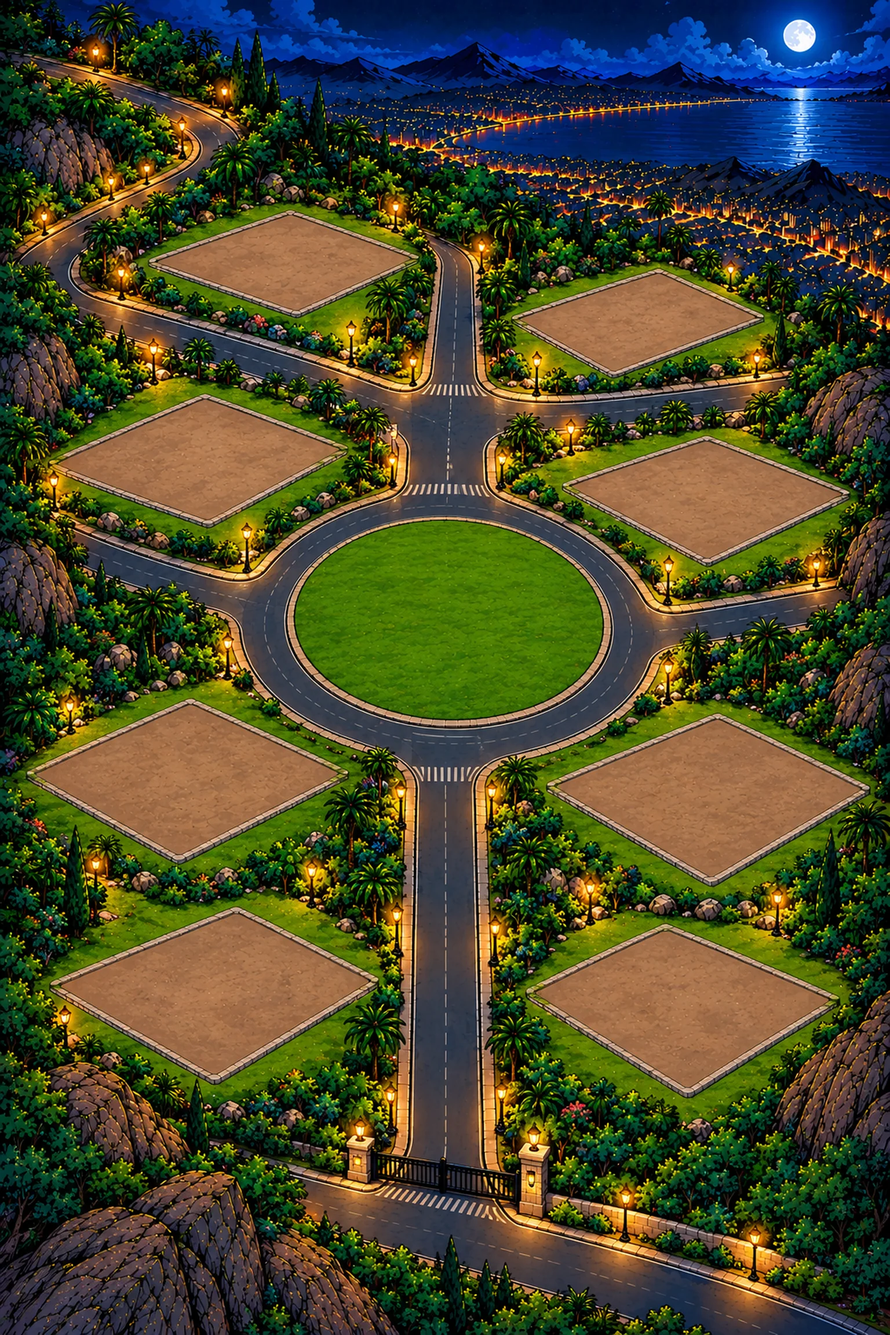
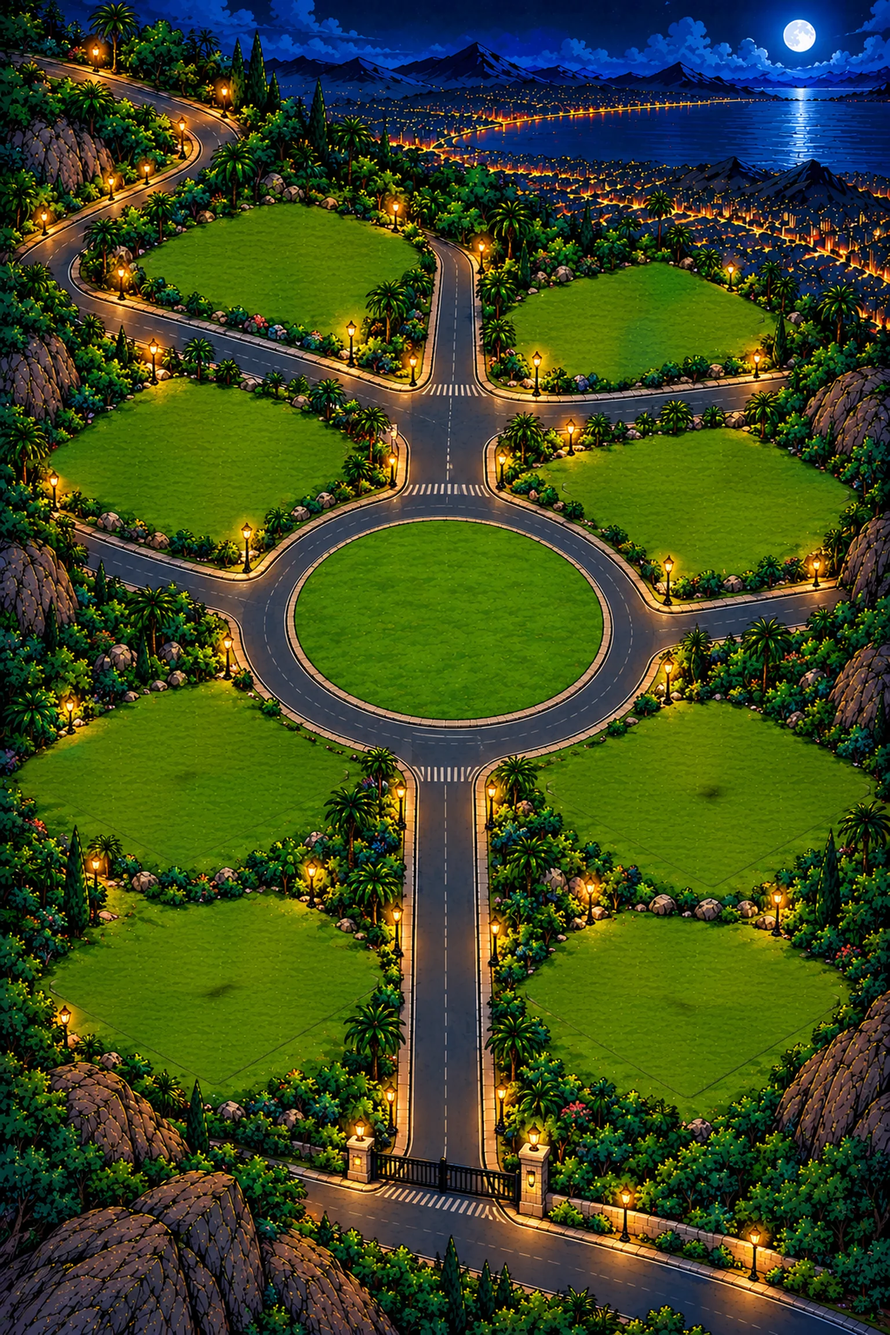
Club map: the empty pads painted out as lawn, the right-hand buildings turned to face the road, buildings refitted
Claude-Session: https://claude.ai/code/session_01NK7tbrKg5PdA6fuyEUPXLd

diff --git a/js/clubmap.js b/js/clubmap.js
@@ -7,14 +7,14 @@ const GREY = 0.7;                   // the grey every club-coloured surface was 
 // where each building stands: its picture's middle as a share of the map, and how wide it is drawn as a share of the map's width
 // (fitted to the plots in the base picture: the building's base on the plot's ground, inside its walls)
 const SITES = {
-  stadium:  { x: 0.505, y: 0.431, w: 0.353 },
+  stadium:  { x: 0.505, y: 0.431, w: 0.370 },
   training: { x: 0.325, y: 0.168, w: 0.318 },
-  apartment:{ x: 0.708, y: 0.215, w: 0.296 },
-  office:   { x: 0.220, y: 0.310, w: 0.360 },
-  academy:  { x: 0.800, y: 0.342, w: 0.333 },
-  medical:  { x: 0.212, y: 0.550, w: 0.374 },
-  clubhouse:{ x: 0.801, y: 0.563, w: 0.373 },
-  shop:     { x: 0.240, y: 0.707, w: 0.388 },
+  apartment:{ x: 0.713, y: 0.216, w: 0.296 },
+  office:   { x: 0.221, y: 0.312, w: 0.359 },
+  academy:  { x: 0.784, y: 0.342, w: 0.338 },
+  medical:  { x: 0.213, y: 0.550, w: 0.374 },
+  clubhouse:{ x: 0.795, y: 0.562, w: 0.377 },
+  shop:     { x: 0.239, y: 0.707, w: 0.388 },
 };
 const ORDER = Object.keys(SITES).sort((a, b) => SITES[a].y - SITES[b].y);   // far to near, the near ones painted over the far
 // where each building is in img/map/buildings.webp (and its tint in buildings-tint.webp): [row, height], all 1100 wide (tools/build_map.py)

diff --git a/tools/build_map.py b/tools/build_map.py
@@ -5,7 +5,7 @@ usage: python3 tools/build_map.py [name ...]      (all of them when none is name
 
 SOURCE (tools/map): base.png (the empty estate, 2048 x 3072) and one picture per building at level 1 (stadium, training, office, apartment, medical,
 academy, clubhouse, shop), each on flat magenta (or already transparent). Roofs, awnings and seats are one royal blue; trim is one golden yellow.
-OUT (img/map): base.webp, buildings.webp (the eight cut-outs one under the other, the blue and yellow turned into a grey ramp, so the club's colour
+OUT (img/map): base.webp (the estate with the empty pads painted over as lawn), buildings.webp (the eight cut-outs one under the other, the blue and yellow turned into a grey ramp, so the club's colour
 multiplied on gives the club's colour at the painted brightness) and buildings-tint.webp (R the main colour's weight, G the trim's); where each
 building is in them is printed (ATLAS, in js/clubmap.js), and where it stands on the map is SITES there.
 Needs numpy, Pillow and scipy.
@@ -17,6 +17,7 @@ from scipy import ndimage as ndi
 
 HERE = os.path.dirname(os.path.abspath(__file__))
 SRC, OUT = os.path.join(HERE, 'map'), os.path.join(HERE, '..', 'img', 'map')
+FLIP = ['apartment', 'academy', 'clubhouse']   # the buildings on the right of the road, turned to face it (their fronts look to the lower right as drawn)
 NAMES = ['stadium', 'training', 'office', 'apartment', 'medical', 'academy', 'clubhouse', 'shop']
 GREY = 0.7              # js/clubmap.js: the grey a club-coloured surface is made in
 BLUE_V, YEL_V = 0.84, 1.0   # the brightness (V) of the painted blue (#1f5fd6) and yellow (#ffd23f)
@@ -79,13 +80,19 @@ def build(name):
     sz = (w, round(rgb.shape[0] * w / rgb.shape[1]))
     base = Image.fromarray((np.dstack([out, al]) * 255 + .5).astype(np.uint8), 'RGBA').resize(sz, Image.LANCZOS)
     tn = Image.fromarray((tint * 255 + .5).astype(np.uint8), 'RGB').resize(sz, Image.LANCZOS)
+    if name in FLIP:
+        base, tn = base.transpose(Image.FLIP_LEFT_RIGHT), tn.transpose(Image.FLIP_LEFT_RIGHT)
     return base, tn
 
 
 def main():
     os.makedirs(OUT, exist_ok=True)
-    im = Image.open(os.path.join(SRC, 'base.png')).convert('RGB')
-    im.resize((1536, 2304), Image.LANCZOS).save(os.path.join(OUT, 'base.webp'), quality=84, method=6)
+    # the estate with its empty pads painted over (tools/clear_pads.py): the buildings bring their own ground
+    import cv2
+    sys.path.insert(0, HERE)
+    from clear_pads import clear
+    a = cv2.imread(os.path.join(SRC, 'base.png'))[..., ::-1].astype(np.float32)
+    Image.fromarray(clear(a).astype(np.uint8)).resize((1536, 2304), Image.LANCZOS).save(os.path.join(OUT, 'base.webp'), quality=84, method=6)
     parts = {n: build(n) for n in (sys.argv[1:] or NAMES)}
     # all the buildings in one picture (and their tints in another), one under the other: the map is published with a limit on its files
     H = sum(b.size[1] for b, _ in parts.values())

diff --git a/tools/clear_pads.py b/tools/clear_pads.py
@@ -1,0 +1,59 @@
+#!/usr/bin/env python3
+"""The club map's empty building pads, painted out: each pad (bare ground and its kerb) becomes lawn, so a building stands on its own lawn and nothing of the pad shows round it.
+
+usage: python3 tools/clear_pads.py in.png out.png      (used by tools/build_map.py)
+The lawn is the colour of the grass round the pad (smoothed) with the grain of a real piece of lawn from the same picture laid over it.
+Needs numpy, scipy, opencv.
+"""
+import sys
+import cv2
+import numpy as np
+from scipy import ndimage as ndi
+
+
+def pad_mask(a):
+    """The pads: bare brown ground, wider by the kerb round it (a is a float RGB picture 0..255)."""
+    r, g, b = a[..., 0], a[..., 1], a[..., 2]
+    dirt = (r > g) & (r > 110) & (r - b > 30) & (r < 200) & (g > 80)
+    dirt = ndi.binary_opening(dirt, iterations=4)
+    lab, n = ndi.label(ndi.binary_closing(dirt, iterations=5))
+    big = [i for i in range(1, n + 1) if (lab == i).sum() > 15000 * (a.shape[0] / 1536) ** 2]
+    m = np.isin(lab, big)
+    return ndi.binary_dilation(m, iterations=round(14 * a.shape[0] / 3072) + 12), m
+
+
+def lawn_grain(a, grass, size=192):
+    """The most evenly grassy square of the picture, its fine grain (the picture minus its own blur)."""
+    k = size
+    frac = ndi.uniform_filter(grass.astype(float), size=k)
+    frac[: k // 2] = 0; frac[-k // 2:] = 0; frac[:, : k // 2] = 0; frac[:, -k // 2:] = 0
+    y, x = np.unravel_index(np.argmax(frac), frac.shape)
+    crop = a[y - k // 2:y + k // 2, x - k // 2:x + k // 2]
+    return crop - np.stack([ndi.gaussian_filter(crop[..., c], 7) for c in range(3)], -1)
+
+
+def clear(a):
+    pad, core = pad_mask(a)
+    r, g, b = a[..., 0], a[..., 1], a[..., 2]
+    grass = (g > r * 1.15) & (g > b * 1.3) & (g > 70) & (g < 190) & ~ndi.binary_dilation(pad, iterations=4)
+    grass = ndi.binary_erosion(grass, iterations=2)
+    w = ndi.gaussian_filter(grass.astype(float), 40) + 1e-6
+    base = np.stack([ndi.gaussian_filter(a[..., c] * grass, 40) / w for c in range(3)], -1)   # the grass colour round about
+    grain = lawn_grain(a, grass)
+    gh, gw = grain.shape[:2]
+    rng = np.random.default_rng(7)
+    tex = np.zeros_like(a)
+    for y in range(0, a.shape[0], gh):
+        for x in range(0, a.shape[1], gw):
+            t = grain if rng.random() < .5 else grain[:, ::-1]
+            t = t if rng.random() < .5 else t[::-1]
+            h, ww = min(gh, a.shape[0] - y), min(gw, a.shape[1] - x)
+            tex[y:y + h, x:x + ww] = t[:h, :ww]
+    lawn = np.clip(base + tex, 0, 255)
+    soft = ndi.gaussian_filter(pad.astype(float), 4)[..., None]
+    return np.clip(a * (1 - soft) + lawn * soft, 0, 255)
+
+
+if __name__ == '__main__':
+    src = cv2.imread(sys.argv[1])[..., ::-1].astype(np.float32)
+    cv2.imwrite(sys.argv[2], clear(src)[..., ::-1].astype(np.uint8))

diff --git a/tools/fit_map_sites.py b/tools/fit_map_sites.py
@@ -11,7 +11,7 @@ import numpy as np, json, sys
 from scipy import ndimage as ndi
 R=os.path.join(os.path.dirname(os.path.abspath(__file__)),'..')+os.sep
 K=float(sys.argv[1]) if len(sys.argv)>1 else 1.2
-base=Image.open(R+'img/map/base.webp').convert('RGB'); W,H=base.size
+base=Image.open(R+'tools/map/base.png').convert('RGB').resize((1536,2304),Image.LANCZOS); W,H=base.size   # (the original: the pads are found by their bare ground)
 a=np.array(base).astype(float); r,g,b=a[...,0],a[...,1],a[...,2]
 dirt=(r>g*0.95)&(r>90)&(r-b>35)&(g>60)&(r<230)
 dirt=ndi.binary_opening(dirt,iterations=3)
@@ -25,7 +25,7 @@ atlas=Image.open(R+'img/map/buildings.webp').convert('RGBA'); al=np.array(atlas)
 plots.append(dict(cx=0.505*W,cy=0.465*H,x0=0.33*W,x1=0.68*W))
 def pick(fx,fy): return min(plots,key=lambda p:(p['cx']/W-fx)**2+(p['cy']/H-fy)**2)
 assign={'stadium':(.505,.465),'training':(.32,.20),'apartment':(.72,.24),'office':(.23,.34),'academy':(.79,.37),'medical':(.21,.58),'clubhouse':(.80,.60),'shop':(.24,.74)}
-out={}; canvas=base.convert('RGBA')
+out={}; canvas=Image.open(R+'img/map/base.webp').convert('RGBA').resize((W,H))
 for n,(fx,fy) in assign.items():
     p=pick(fx,fy); row,h=ATLAS[n]; m=al[row:row+h]>60
     ys,xs=np.where(m); sy0,sy1=ys.min(),ys.max()
